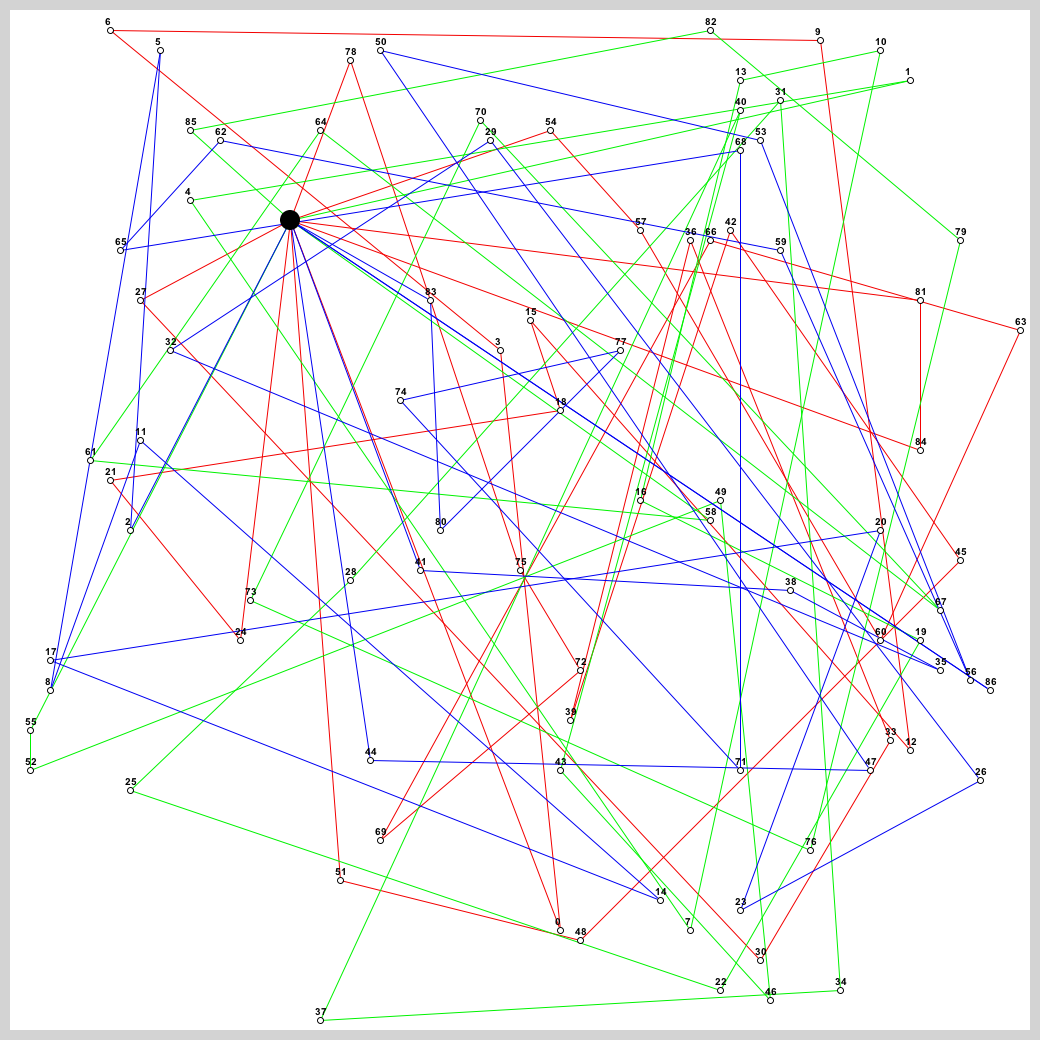
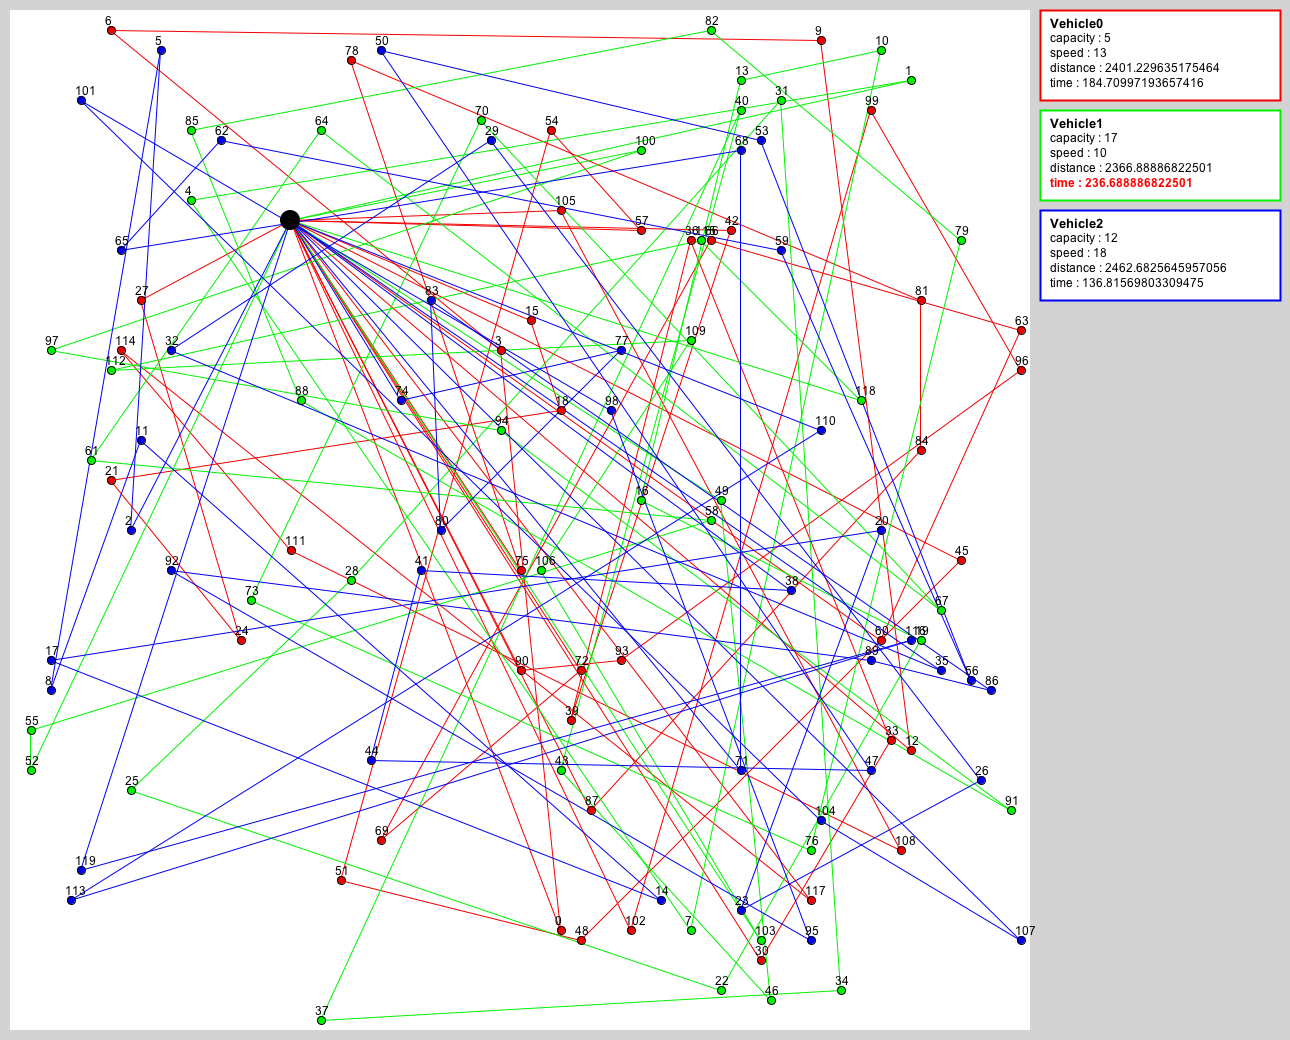
ビジュアライザを書き換えた

diff --git a/VRP/tester/Tester.java b/VRP/tester/Tester.java
@@ -12,15 +12,16 @@ public class Tester {
     public class Visualizer extends JPanel implements WindowListener {
     	
         public void paint(Graphics g) {
+
             try {
-                BufferedImage bi = new BufferedImage(SIZE_VIS_X, SIZE_VIS_Y, BufferedImage.TYPE_INT_RGB);
+                BufferedImage bi = new BufferedImage(SIZE_VIS_X + VEHICLE_VIEW_WIDTH, SIZE_VIS_Y, BufferedImage.TYPE_INT_RGB);
                 Graphics2D g2 = (Graphics2D)bi.getGraphics();
                 g2.setRenderingHint(RenderingHints.KEY_ANTIALIASING, RenderingHints.VALUE_ANTIALIAS_ON);
                 
                 g2.setColor(new Color(0xD3D3D3));
-                g2.fillRect(0, 0, SIZE_VIS_X, SIZE_VIS_Y);
+                g2.fillRect(0, 0, SIZE_VIS_X + VEHICLE_VIEW_WIDTH, SIZE_VIS_Y);
                 g2.setColor(new Color(0xFFFFFF));
-                g2.fillRect(10, 10, SIZE_VIS_X - 220, SIZE_VIS_Y - 20);
+                g2.fillRect(10, 10, SIZE_VIS_X - 20, SIZE_VIS_Y - 20);
 
                 for (int i = 0; i < perm.length; i++) {
                     int x = depotX, y = depotY;
@@ -46,15 +47,16 @@ public class Tester {
                 for (int i = 0; i < perm.length; i++) {
                     for (int j = 0; j < perm[i].length; j++) {
                         int idx = perm[i][j];
-                        g2.setColor(new Color(0xFFFFFF));
-                        g2.fillOval(posX[idx] * 10 + 17, posY[idx] * 10 + 17, 6, 6);
+                        Color c = Color.getHSBColor((1.0f / (float)M) * (float)i, 1.0f, 0.95f);
+                        g2.setColor(c);
+                        g2.fillOval(posX[idx] * 10 + 17, posY[idx] * 10 + 16, 8, 8);
                         g2.setColor(new Color(0x000000));
-                        g2.drawOval(posX[idx] * 10 + 17, posY[idx] * 10 + 17, 6, 6);
+                        g2.drawOval(posX[idx] * 10 + 17, posY[idx] * 10 + 16, 8, 8);
                     }
                 }
 
                 if (numb) {
-                    g2.setFont(new Font("Arial", Font.BOLD, 10));
+                    g2.setFont(new Font("Arial", Font.PLAIN, 12));
                     FontMetrics fm = g2.getFontMetrics();
                     for (int i = 0; i < N; ++i) {
                         char[] ch = ("" + i).toCharArray();
@@ -66,8 +68,49 @@ public class Tester {
 
                 g2.setColor(new Color(0x000000));
                 g2.fillOval(depotX * 10 + 10, depotY * 10 + 10, 20, 20);
+
+                /* vehicle infomation */
+                int worst_idx = -1;
+                double worst_time = -1.0;
+                for (int i = 0; i < M; i++) {
+                    if (worst_time < dist[i] / (double)speed[i]) {
+                        worst_time = dist[i] / (double)speed[i];
+                        worst_idx = i;
+                    }
+                }
+
+                BasicStroke wideStroke = new BasicStroke(2.0f);
+                g2.setStroke(wideStroke);
+                for (int i = 0; i < M; i++) {
+                    
+                    g2.setColor(new Color(0xFFFFFF));
+                    g2.fillRect(SIZE_VIS_X, i * 100 + 10, VEHICLE_VIEW_WIDTH - 10, 90);
+                    Color c = Color.getHSBColor((1.0f / (float)M) * (float)i, 1.0f, 0.95f);
+                    g2.setColor(c);
+                    g2.drawRect(SIZE_VIS_X, i * 100 + 10, VEHICLE_VIEW_WIDTH - 10, 90);
+                    
+                    g2.setColor(new Color(0x000000));
+                    FontMetrics fm = g2.getFontMetrics();
+                    char[] ch0 = ("Vehicle" + i).toCharArray();
+                    char[] ch1 = ("capacity : " + cap[i]).toCharArray();
+                    char[] ch2 = ("speed : " + speed[i]).toCharArray();
+                    char[] ch3 = ("distance : " + dist[i]).toCharArray();
+                    char[] ch4 = ("time : " + dist[i] / (double)speed[i] + "\n").toCharArray();
+                    g2.setFont(new Font("Arial", Font.BOLD, 13));
+                    g2.drawChars(ch0, 0, ch0.length, SIZE_VIS_X + 10, i * 100 + 28);
+                    g2.setFont(new Font("Arial", Font.PLAIN, 12));
+                    g2.drawChars(ch1, 0, ch1.length, SIZE_VIS_X + 10, i * 100 + 42);
+                    g2.drawChars(ch2, 0, ch2.length, SIZE_VIS_X + 10, i * 100 + 57);
+                    g2.drawChars(ch3, 0, ch3.length, SIZE_VIS_X + 10, i * 100 + 72);
+
+                    if (i == worst_idx) {
+                        g2.setFont(new Font("Arial", Font.BOLD, 12));
+                        g2.setColor(new Color(0xFF0000));
+                    }
+                    g2.drawChars(ch4, 0, ch4.length, SIZE_VIS_X + 10, i * 100 + 87);
+                }   
                 
-                g.drawImage(bi, 0, 0, SIZE_VIS_X, SIZE_VIS_Y, null);
+                g.drawImage(bi, 0, 0, SIZE_VIS_X + VEHICLE_VIEW_WIDTH, SIZE_VIS_Y, null);
                 if (save) ImageIO.write(bi, "png", new File(fileName +".png"));
 
             } catch (Exception e) { 
@@ -112,9 +155,10 @@ public class Tester {
     static boolean save, vis, numb, debug;
 
     final int SIZE = 100 + 1;
-    final int SIZE_VIS_X = (SIZE + 3) * 10 + 200;
+    final int SIZE_VIS_X = (SIZE + 3) * 10;
     final int SIZE_VIS_Y = (SIZE + 3) * 10;
-    final int MAXN = 200, MINN = 50;
+    final int VEHICLE_VIEW_WIDTH = 250;
+    final int MAXN = 500, MINN = 50;
     final int MAXM = 10,  MINM = 3;
     final int MAX_CAP = 20, MIN_CAP = 5;
     final int MAX_SPEED = 20, MIN_SPEED = 1;
@@ -222,7 +266,7 @@ public class Tester {
         }
 
         if (vis) {
-            jf.setSize(SIZE_VIS_X, SIZE_VIS_Y);
+            jf.setSize(SIZE_VIS_X + VEHICLE_VIEW_WIDTH, SIZE_VIS_Y);
             jf.setVisible(true);
         }
         

diff --git a/VRP/sample/main.cpp b/VRP/sample/main.cpp
@@ -12,14 +12,8 @@ int main(int argc, char *argv[]) {
     vector < int > cap(M), speed(M);
 
     cin >> depotX >> depotY;
-
-    for (int i = 0; i < N; i++) {
-        cin >> posX[i] >> posY[i];
-    }
-    
-    for (int i = 0; i < M; i++) {
-        cin >> cap[i] >> speed[i];
-    }
+    for (int i = 0; i < N; i++) cin >> posX[i] >> posY[i];
+    for (int i = 0; i < M; i++) cin >> cap[i] >> speed[i];
 
     vector < vector < int > > ans(M);
     for (int i = 0; i < N; i++) {
